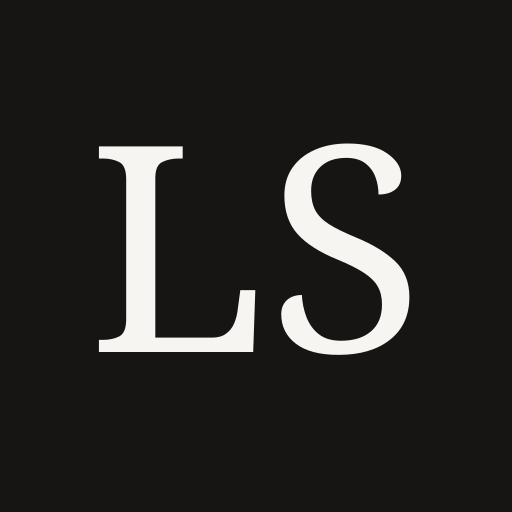
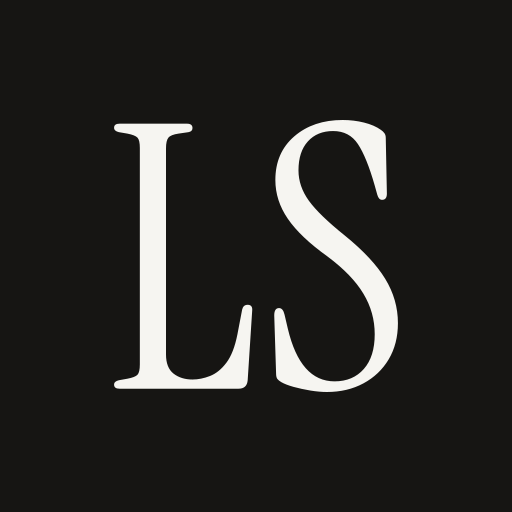
Deploy as Vite on Vercel and vectorize the LS monogram
- vercel.json pins framework, install, build and output settings so
  previews no longer expect the old Next.js package
- Favicon and app icons draw "LS" in Instrument Serif as outlines
  instead of live text, so they render identically everywhere

Claude-Session: https://claude.ai/code/session_01YboMqi7p7WqEVwcSdmDQSR

diff --git a/scripts/images.js b/scripts/images.js
@@ -41,9 +41,14 @@ for (const [locale, [role, company]] of Object.entries(og)) {
     .toFile(path.join(pub, `og-${locale}.jpg`));
 }
 
+// "LS" in Instrument Serif, converted to outlines (64x64 box) so the icon
+// renders the same everywhere instead of depending on installed fonts.
+const LS_PATH =
+  "M29.81 48.59L14.95 48.59Q14.26 48.59 14.26 48.08L14.26 48.08Q14.26 47.67 14.86 47.53L14.86 47.53L15.92 47.34Q16.89 47.16 17.19 46.84Q17.48 46.52 17.48 45.55L17.48 45.55L17.48 18.50Q17.48 17.53 17.19 17.21Q16.89 16.89 15.92 16.70L15.92 16.70L14.86 16.52Q14.26 16.38 14.26 15.97L14.26 15.97Q14.26 15.46 14.95 15.46L14.95 15.46L23.37 15.46Q24.06 15.46 24.06 16.01L24.06 16.01Q24.06 16.43 23.56 16.52L23.56 16.52L22.32 16.70Q21.35 16.84 21.05 17.21Q20.75 17.58 20.75 18.54L20.75 18.54L20.75 44.31Q20.75 45.96 21.69 46.70Q22.64 47.44 24.06 47.44L24.06 47.44Q25.12 47.44 26.25 47Q27.38 46.56 28.30 45.34Q29.22 44.12 29.68 41.78L29.68 41.78L30.27 38.69Q30.41 38.10 30.96 38.10L30.96 38.10Q31.61 38.10 31.52 38.88L31.52 38.88L30.96 47.53Q30.87 48.59 29.81 48.59L29.81 48.59ZM40.86 49L40.86 49Q39.94 49 38.81 48.82Q37.68 48.63 36.69 48.36Q35.70 48.08 35.15 47.76L35.15 47.76Q34.83 47.57 34.67 47.37Q34.51 47.16 34.51 46.65L34.51 46.65L34.28 39.43Q34.28 38.51 34.88 38.51L34.88 38.51Q35.38 38.51 35.57 39.34L35.57 39.34L35.98 41.09Q37.54 47.67 41.82 47.67L41.82 47.67Q44.12 47.67 45.48 46.12Q46.84 44.58 46.84 41.78L46.84 41.78Q46.84 39.06 45.43 36.72Q44.03 34.37 40.95 32.07L40.95 32.07Q37.54 29.63 35.98 27.35Q34.42 25.08 34.42 22.50L34.42 22.50Q34.42 19.09 36.78 17.05Q39.15 15 42.83 15L42.83 15Q44.22 15 45.50 15.32Q46.79 15.64 47.62 16.24L47.62 16.24Q47.90 16.43 48.06 16.66Q48.22 16.89 48.22 17.25L48.22 17.25L48.36 24.20Q48.36 24.98 47.76 24.98L47.76 24.98Q47.34 24.98 47.16 24.34L47.16 24.34L46.84 23.19Q45.83 19.65 44.74 18.01Q43.66 16.38 41.64 16.38L41.64 16.38Q39.66 16.38 38.49 17.67Q37.31 18.96 37.31 21.30L37.31 21.30Q37.31 23.28 38.60 25.08Q39.89 26.87 43.11 29.45L43.11 29.45Q46.56 32.25 48.15 34.85Q49.74 37.45 49.74 40.40L49.74 40.40Q49.74 42.97 48.59 44.91Q47.44 46.84 45.43 47.92Q43.43 49 40.86 49Z";
+
 const icon = (size, rx) => `<svg xmlns="http://www.w3.org/2000/svg" width="${size}" height="${size}" viewBox="0 0 64 64">
   <rect width="64" height="64" rx="${rx}" fill="#161513"/>
-  <text x="32" y="44" text-anchor="middle" font-family="Georgia, 'Instrument Serif', serif" font-size="36" fill="#f6f5f1">LS</text>
+  <path fill="#f6f5f1" d="${LS_PATH}"/>
 </svg>`;
 await writeFile(path.join(pub, "favicon.svg"), icon(64, 14));
 await sharp(Buffer.from(icon(32, 14))).png().toFile(path.join(pub, "favicon-32.png"));
